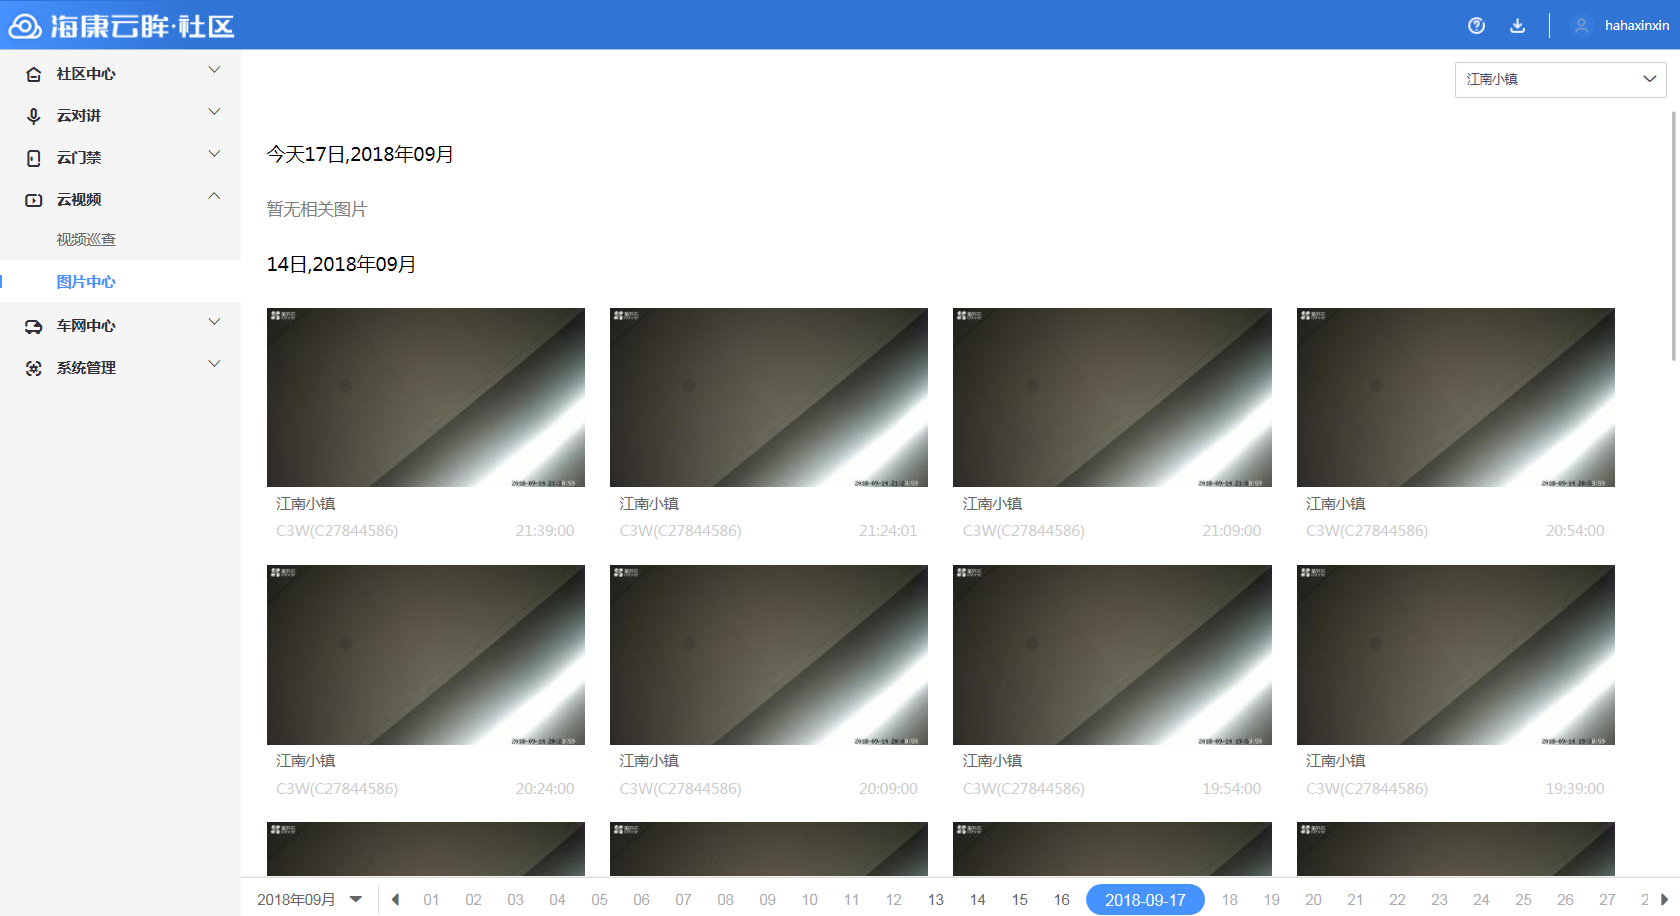
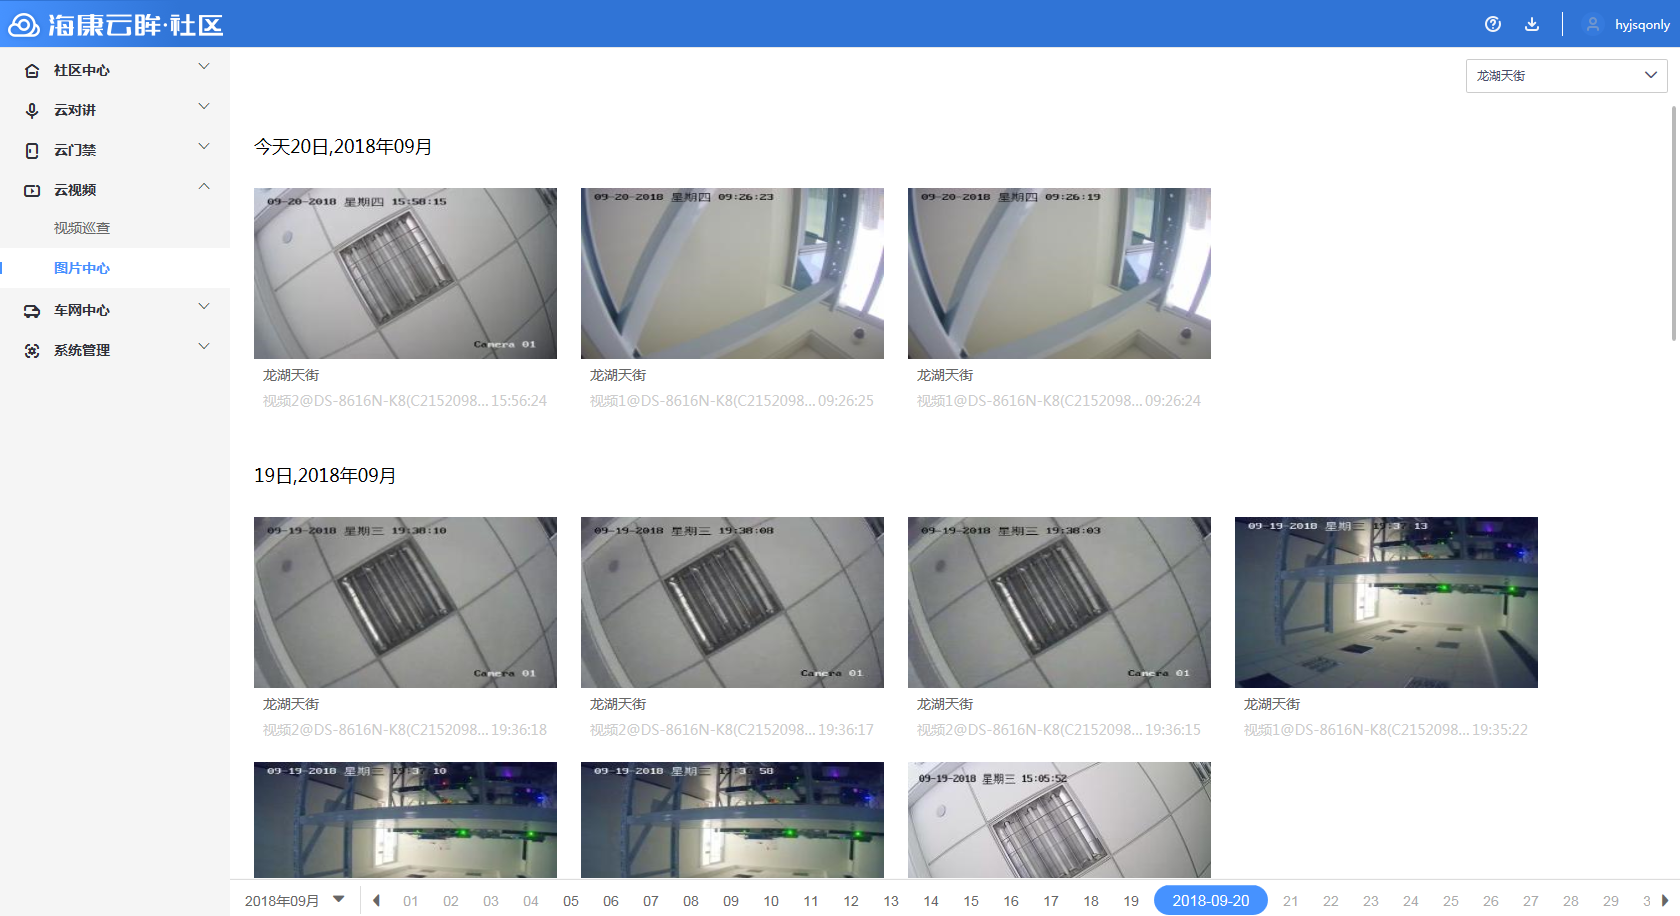
Updates assets/tu-pian-zhong-xin.png
Auto commit by GitBook Editor

diff --git a/yun-men-jin/kai-men-shi-jian.md b/yun-men-jin/kai-men-shi-jian.md
@@ -2,23 +2,13 @@
 
 ---
 
-**步骤 1**进入“门禁配置管理”，左侧展示社区树，右侧可选择门禁分组， 提供门组新增、删除、修改等操作。
+**步骤1 **进入“开门事件”，左侧展示社区树，右侧可查看社区内所有开门事件日志。开门事件包含姓名、卡号、事件类型、事件源、时间及开门抓拍图片等详情。
 
-![](/assets/men-jin-pei-zhi-guan-li.jpg)
-
-> 说明
->
-> 1.门禁分组主要用来为门禁点分组，方便授权。
-
-**步骤 2 **选择门禁配置， 平台提供三种授权方式，分别为按人员、门禁点和门组授权。
-
-![](/assets/men-jin-quan-xian-tian-jia.jpg)
+![](/assets/kai-men-shi-jian.png)
 
 > 说明
 >
-> 1.添加权限时可以选择按人员授权、按门禁点授权、按门组授权三种授权方式。  
-> 2.添加权限后可在列表中查询已经添加的权限， 可根据人员类型、权限查询方式、关键字等筛选数据。  
-> 3.权限添加成功后，住户和物业人员可根据该权限使用移动端一键开门和蓝牙开门功能。若使用卡片方式，则需要在设备管理卡号下发成功之后方能使用卡片刷卡开门。
+> 1.开门事件可通过姓名进行查询，也可使用高级搜索功能，通过事件类型、时间范围进行筛选。
 
 
 

diff --git a/yun-fang-ke/shi-pin-xun-cha.md b/yun-fang-ke/shi-pin-xun-cha.md
@@ -1,0 +1,24 @@
+## 7.1视频巡查 {#门店管理}
+
+---
+
+**步骤1 **进入“视频巡查”，左侧默认展示全部视频点位，可选取不同级别的分组进行组内视频点位展示。
+
+![](/assets/shi-pin-xun-cha.png)
+
+> 说明
+>
+> 1.可选择单个社区进行查看，也可针对社区中心划分的各等级区域，查看区域范围内的所有点位。
+
+**步骤2 **选择单个视频点位，即可开始视频点位预览和回放功能。可设置单路、4路、9路等多路视频进行实时预览。
+
+![](/assets/shi-shi-yu-lan.jpg)
+
+> 说明
+>
+> 1.在单视频预览下，可点击画面左上方“抓拍”键进行截图，同时可通过右侧抓拍列表浮窗，对抓拍图片进行编辑。  
+> 2.多路视频同时预览，可点击画面左下方“全部录像”“全部抓拍”“全部关闭”对所有画面进行统一操作。  
+> 3.可点击右下角切换画面显示路数及分布，或切换全屏模式。
+
+
+

diff --git a/yun-men-jin/61men-jin-pei-zhi-guan-li.md b/yun-men-jin/61men-jin-pei-zhi-guan-li.md
@@ -2,7 +2,7 @@
 
 ---
 
-**步骤 1**进入“门禁管理”，左侧展示社区树，右侧可选择门禁分组， 提供门组新增、删除、修改等操作。
+**步骤1 **进入“门禁管理”，左侧展示社区树，右侧可选择门禁分组， 提供门组新增、删除、修改等操作。
 
 ![](/assets/men-jin-guan-li.png)
 
@@ -10,7 +10,7 @@
 >
 > 1.门禁分组主要用来为门禁点分组，方便统一授权。
 
-**步骤 2 **选择门禁配置， 平台提供三种授权方式，分别为按人员、门禁点和门组授权。
+**步骤2 **选择门禁配置， 平台提供三种授权方式，分别为按人员、门禁点和门组授权。
 
 ![](/assets/men-jin-pei-zhi.png)
 

diff --git a/yun-fang-ke/tu-pian-zhong-xin.md b/yun-fang-ke/tu-pian-zhong-xin.md
@@ -1,2 +1,17 @@
+## 7.2图片中心 {#门店管理}
+
+---
+
+**步骤1 **进入“图片中心”，选中目标社区，即可查看该社区的历史抓图记录。
+
 ![](/assets/tu-pian-zhong-xin.png)
+
+> 说明：
+>
+> 1.下方时间轴可快速定位图片日期。  
+> 2.社区内所有点位抓图记录按时间顺序排列。
+
+
+
+
 

diff --git a/wu-ye-fu-wu.md b/wu-ye-fu-wu.md
@@ -2,7 +2,7 @@
 
 ---
 
-物业管理后台，可以配置物业工单系统，发布社区公告和内部通知和查看报事报修工单和投诉建议记录：
+物业管理后台，可以配置物业工单系统，发布社区公告、内部通知和查看报事报修工单和投诉建议记录：
 
 * 暂未开放
 
